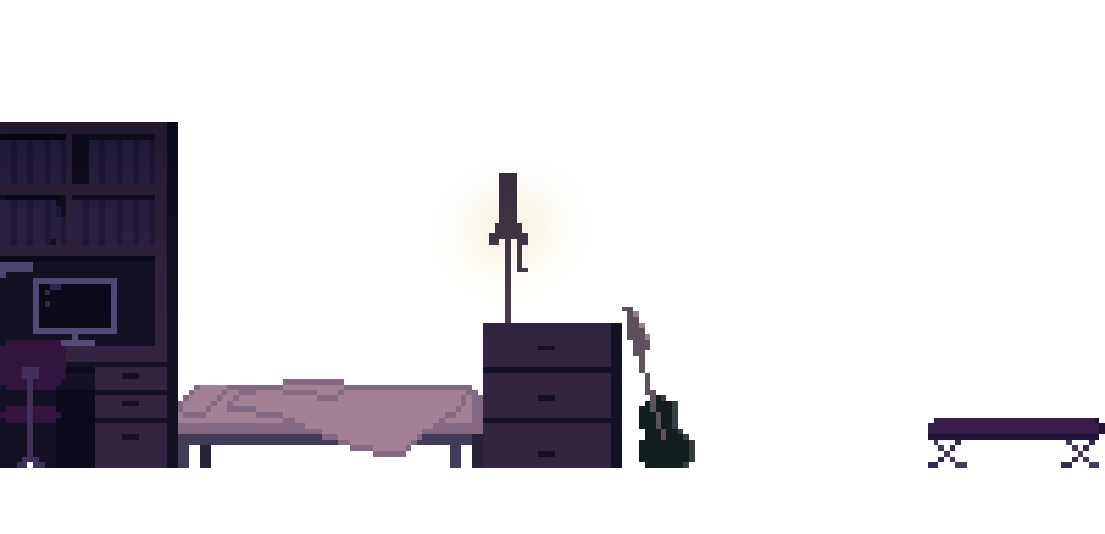
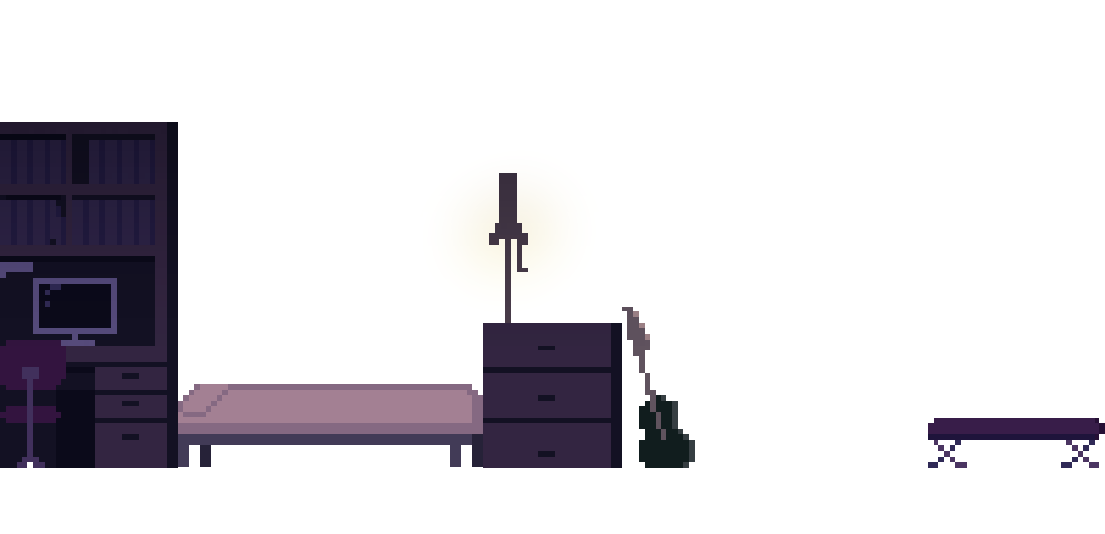
ベッドと掛け布団の画像を分ける

Changed region(s): [[0.2462, 0.779, 0.4, 0.8689], [0.1846, 0.6891, 0.3385, 0.779], [0.4, 0.7191, 0.4308, 0.779]]

diff --git a/src/components/Exhibition/2d/Background.tsx b/src/components/Exhibition/2d/Background.tsx
@@ -10,6 +10,11 @@ export const Exhibition2dBackground: React.FC<{
     <Exhibition2dObject {...props} url="/exhibition/background/1.png" />
     <Exhibition2dObject
       {...props}
+      x={128}
+      url="/exhibition/background/comforter.png"
+    />
+    <Exhibition2dObject
+      {...props}
       x={885}
       url="/exhibition/background/corridor.jpg"
     />
